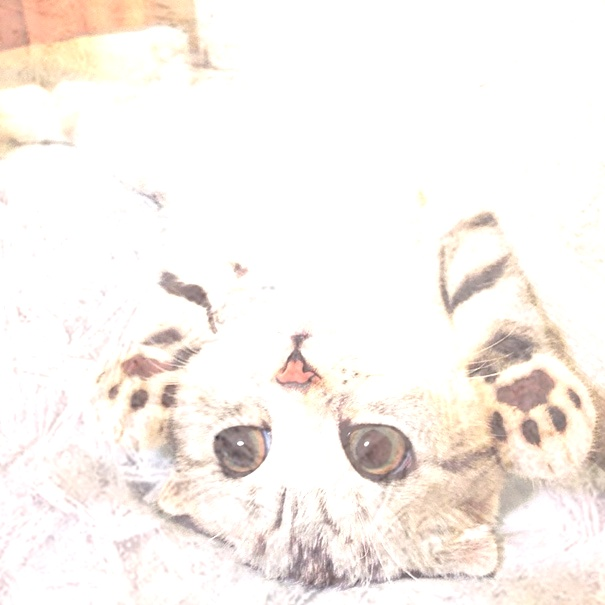
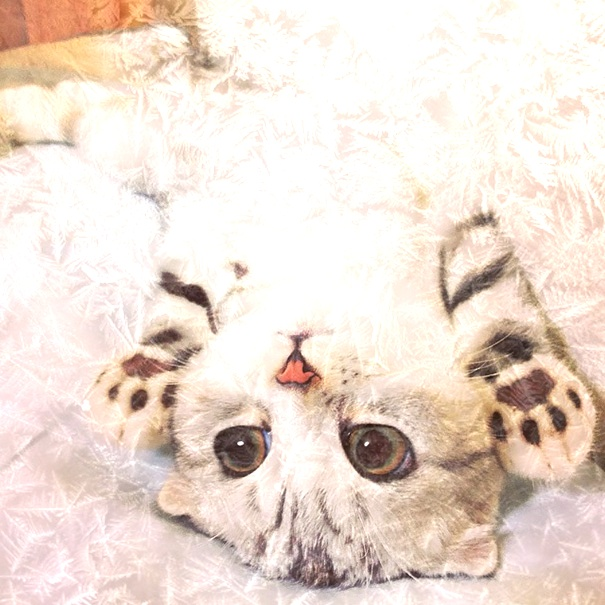
update

diff --git a/index.html b/index.html
@@ -2615,6 +2615,204 @@ A huge list of many types of data augmentations techniques used for deep learnin
 
 <!--------------------------------------------------------------------------------------------------------------------->
 
+<h3>Pad</h3>
+<ul class="augmentations">
+    <!----------------------------------------------------------------------------------------------------------------->
+    <!-- Pad to Fixed Size -->
+    <!----------------------------------------------------------------------------------------------------------------->
+    <li class="item_list">
+        <button onclick="show('aug_pad_to_fixed_size')">Pad to Fixed Size</button>
+        <div id="aug_pad_to_fixed_size" style="display: none;">
+            Pad images to minimum width/height.
+            Source: <a target="_blank" 
+                       href="https://imgaug.readthedocs.io/en/latest/source/overview/size.html#padtofixedsize">Imgaug</a><br>
+            <figure>
+                <img src="images/kitty.jpg"> 
+                <figcaption>Original</figcaption>
+            </figure>
+            <figure>
+                <img src="images/kitty_pad_to_fixed_size.jpg" style="width: 605px;">
+                <figcaption>Augmentation</figcaption>
+            </figure>  
+        </div>
+    </li>
+    <!----------------------------------------------------------------------------------------------------------------->
+    <!-- Pad to Multiples of -->
+    <!----------------------------------------------------------------------------------------------------------------->
+    <li class="item_list">
+        <button onclick="show('aug_pad_to_multiples_of')">Pad to Multiples of</button>
+        <div id="aug_pad_to_multiples_of" style="display: none;">
+            Pad images until their height/width is a multiple of a value.
+            Source: <a target="_blank" 
+                       href="https://imgaug.readthedocs.io/en/latest/source/overview/size.html#padtomultiplesof">Imgaug</a><br>
+            <figure>
+                <img src="images/kitty.jpg"> 
+                <figcaption>Original</figcaption>
+            </figure>
+            <figure>
+                <img src="images/kitty_pad_to_multiples_of.jpg">
+                <figcaption>Augmentation</figcaption>
+            </figure>  
+        </div>
+    </li>
+    <!----------------------------------------------------------------------------------------------------------------->
+    <!-- Pad to Powers of -->
+    <!----------------------------------------------------------------------------------------------------------------->
+    <li class="item_list">
+        <button onclick="show('aug_pad_to_powers_of')">Pad to Powers of</button>
+        <div id="aug_pad_to_powers_of" style="display: none;">
+            Pad images until their height/width is a power of a base.
+            Source: <a target="_blank" 
+                       href="https://imgaug.readthedocs.io/en/latest/source/overview/size.html#padtopowersof">Imgaug</a><br>
+            <figure>
+                <img src="images/kitty.jpg"> 
+                <figcaption>Original</figcaption>
+            </figure>
+            <figure>
+                <img src="images/kitty_pad_to_powers_of.jpg">
+                <figcaption>Augmentation</figcaption>
+            </figure>  
+        </div>
+    </li>
+    <!----------------------------------------------------------------------------------------------------------------->
+    <!-- Pad to Aspect Ratio -->
+    <!----------------------------------------------------------------------------------------------------------------->
+    <li class="item_list">
+        <button onclick="show('aug_pad_to_aspect_ratio')">Pad to Aspect Ratio</button>
+        <div id="aug_pad_to_aspect_ratio" style="display: none;">
+            Pad images until their width/height matches an aspect ratio.
+            Source: <a target="_blank" 
+                       href="https://imgaug.readthedocs.io/en/latest/source/overview/size.html#padtoaspectratio">Imgaug</a><br>
+            <figure>
+                <img src="images/kitty.jpg"> 
+                <figcaption>Original</figcaption>
+            </figure>
+            <figure>
+                <img src="images/kitty_pad_to_aspect_ratio.jpg">
+                <figcaption>Augmentation</figcaption>
+            </figure>  
+        </div>
+    </li>
+    <!----------------------------------------------------------------------------------------------------------------->
+    <!-- Pad to Square -->
+    <!----------------------------------------------------------------------------------------------------------------->
+    <li class="item_list">
+        <button onclick="show('aug_pad_to_square')">Pad to Square</button>
+        <div id="aug_pad_to_square" style="display: none;">
+            Pad images until their height and width are identical.
+            Source: <a target="_blank" 
+                       href=https://imgaug.readthedocs.io/en/latest/source/overview/size.html#padtosquare">Imgaug</a><br>
+            <figure>
+                <img src="images/kitty.jpg"> 
+                <figcaption>Original</figcaption>
+            </figure>
+            <figure>
+                <img src="images/kitty_pad_to_square.jpg">
+                <figcaption>Augmentation</figcaption>
+            </figure>  
+        </div>
+    </li>
+    <!----------------------------------------------------------------------------------------------------------------->
+    <!-- Center Pad to Fixed Size -->
+    <!----------------------------------------------------------------------------------------------------------------->
+    <li class="item_list">
+        <button onclick="show('aug_cpad_to_fixed_size')">Center Pad to Fixed Size</button>
+        <div id="aug_cpad_to_fixed_size" style="display: none;">
+            Pad images equally on all sides up to given minimum heights/widths.
+            Source: <a target="_blank" 
+                       href="https://imgaug.readthedocs.io/en/latest/source/overview/size.html#centerpadtofixedsize">Imgaug</a><br>
+            <figure>
+                <img src="images/kitty.jpg"> 
+                <figcaption>Original</figcaption>
+            </figure>
+            <figure>
+                <img src="images/kitty_center_pad_to_fixed_size.jpg" style="width:605px">
+                <figcaption>Augmentation</figcaption>
+            </figure>  
+        </div>
+    </li>
+    <!----------------------------------------------------------------------------------------------------------------->
+    <!-- Center Pad to Multiples of -->
+    <!----------------------------------------------------------------------------------------------------------------->
+    <li class="item_list">
+        <button onclick="show('aug_cpad_to_multiples_of')">Center Pad to Multiples of</button>
+        <div id="aug_cpad_to_multiples_of" style="display: none;">
+            Pad images equally on all sides until H/W are multiples of given values.
+            Source: <a target="_blank" 
+                       href="https://imgaug.readthedocs.io/en/latest/source/overview/size.html#centerpadtomultiplesof">Imgaug</a><br>
+            <figure>
+                <img src="images/kitty.jpg"> 
+                <figcaption>Original</figcaption>
+            </figure>
+            <figure>
+                <img src="images/kitty_center_pad_to_multiples_of.jpg">
+                <figcaption>Augmentation</figcaption>
+            </figure>  
+        </div>
+    </li>
+    <!----------------------------------------------------------------------------------------------------------------->
+    <!-- Center Pad to Powers of -->
+    <!----------------------------------------------------------------------------------------------------------------->
+    <li class="item_list">
+        <button onclick="show('aug_cpad_to_powers_of')">Center Pad to Powers of</button>
+        <div id="aug_cpad_to_powers_of" style="display: none;">
+            Pad images equally on all sides until H/W is a power of a base.
+            Source: <a target="_blank" 
+                       href="https://imgaug.readthedocs.io/en/latest/source/overview/size.html#centerpadtopowersof">Imgaug</a><br>
+            <figure>
+                <img src="images/kitty.jpg"> 
+                <figcaption>Original</figcaption>
+            </figure>
+            <figure>
+                <img src="images/kitty_center_pad_to_powers_of.jpg">
+                <figcaption>Augmentation</figcaption>
+            </figure>  
+        </div>
+    </li>
+    <!----------------------------------------------------------------------------------------------------------------->
+    <!-- Center Pad to Aspect Ratio -->
+    <!----------------------------------------------------------------------------------------------------------------->
+    <li class="item_list">
+        <button onclick="show('aug_cpad_to_aspect_ratio')">Center Pad to Aspect Ratio</button>
+        <div id="aug_cpad_to_aspect_ratio" style="display: none;">
+            Pad images equally on all sides until H/W matches an aspect ratio.
+            Source: <a target="_blank" 
+                       href="https://imgaug.readthedocs.io/en/latest/source/overview/size.html#centerpadtoaspectratio">Imgaug</a><br>
+            <figure>
+                <img src="images/kitty.jpg"> 
+                <figcaption>Original</figcaption>
+            </figure>
+            <figure>
+                <img src="images/kitty_center_pad_to_aspect_ratio.jpg">
+                <figcaption>Augmentation</figcaption>
+            </figure>  
+        </div>
+    </li>
+    <!----------------------------------------------------------------------------------------------------------------->
+    <!-- Center Pad to Square -->
+    <!----------------------------------------------------------------------------------------------------------------->
+    <li class="item_list">
+        <button onclick="show('aug_center_pad_to_square')">Center Crop to Square</button>
+        <div id="aug_center_pad_to_square" style="display: none;">
+            Pad images equally on all sides until their height & width are identical.
+            Source: <a target="_blank" 
+                       href="https://imgaug.readthedocs.io/en/latest/source/overview/size.html#centerpadtosquare">Imgaug</a><br>
+            <figure>
+                <img src="images/kitty.jpg"> 
+                <figcaption>Original</figcaption>
+            </figure>
+            <figure>
+                <img src="images/kitty_center_pad_to_square.jpg">
+                <figcaption>Augmentation</figcaption>
+            </figure>  
+        </div>
+    </li>
+    <!----------------------------------------------------------------------------------------------------------------->
+</ul>
+
+<!--------------------------------------------------------------------------------------------------------------------->
+
+
 <p>On building...</p>
 
 <ul class="augmentations">

diff --git a/images/augmentation.py b/images/augmentation.py
@@ -501,7 +501,7 @@ if __name__ == '__main__':
         transformed_image = transform(image=image)
 
     elif augmentation == 'frost':
-        transform = iaa.imgcorruptlike.Frost(severity=2)
+        transform = iaa.imgcorruptlike.Frost(severity=1)
         transformed_image = transform(image=image)
 
     elif augmentation == 'clouds':
@@ -598,6 +598,48 @@ if __name__ == '__main__':
 
     elif augmentation == 'flipud':
         transform = iaa.Flipud(0.5)
+        transformed_image = transform(image=image)
+
+    ## Pad
+
+    elif augmentation == 'pad_to_fixed_size':
+        transform = iaa.PadToFixedSize(width=1000, height=1000)
+        transformed_image = transform(image=image)
+
+    elif augmentation == 'pad_to_multiples_of':
+        transform = iaa.PadToPowersOf(height_base=3, width_base=2)
+        transformed_image = transform(image=image)
+
+    elif augmentation == 'pad_to_powers_of':
+        transform = iaa.CropToMultiplesOf(height_multiple=32, width_multiple=32)
+        transformed_image = transform(image=image)
+
+    elif augmentation == 'pad_to_aspect_ratio':
+        transform = iaa.PadToAspectRatio(2.0)
+        transformed_image = transform(image=image)
+
+    elif augmentation == 'pad_to_square':
+        transform = iaa.PadToSquare()
+        transformed_image = transform(image=image)
+
+    elif augmentation == 'center_pad_to_fixed_size':
+        transform = iaa.CenterPadToFixedSize(width=300, height=300)
+        transformed_image = transform(image=image)
+
+    elif augmentation == 'center_pad_to_multiples_of':
+        transform = iaa.CenterPadToPowersOf(height_base=3, width_base=2)
+        transformed_image = transform(image=image)
+
+    elif augmentation == 'center_pad_to_powers_of':
+        transform = iaa.CenterPadToMultiplesOf(height_multiple=32, width_multiple=32)
+        transformed_image = transform(image=image)
+
+    elif augmentation == 'center_pad_to_aspect_ratio':
+        transform = iaa.CenterPadToAspectRatio(2.0)
+        transformed_image = transform(image=image)
+
+    elif augmentation == 'center_pad_to_square':
+        transform = iaa.CenterPadToSquare()
         transformed_image = transform(image=image)
 
     ##############
